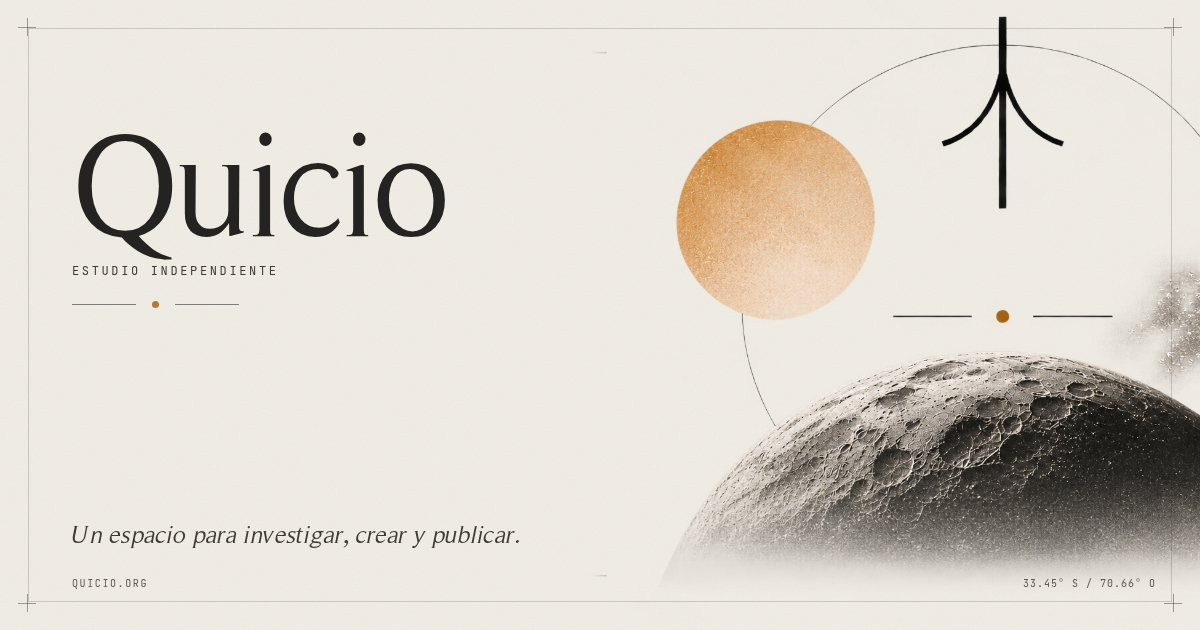
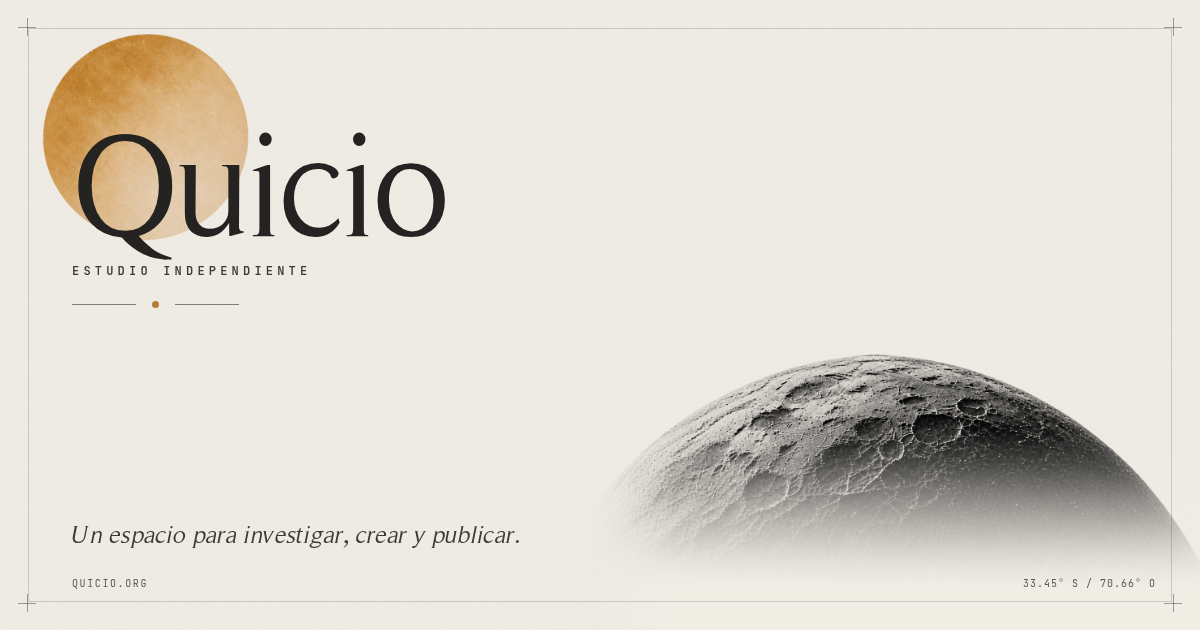
fix: corregir el desbordamiento a 1280/1366 y actualizar la imagen social
- Permite que las disciplinas del catálogo rompan y encojan; sin scroll horizontal a 1280 y 1366.
- Regenera og.png con el sol, la luna y el wordmark actuales.
- Actualiza el backlog: D-001 y D-003 resueltos.

diff --git a/scripts/og.html b/scripts/og.html
@@ -19,7 +19,7 @@
       @font-face {
         font-family: "JetBrains Mono";
         font-style: normal;
-        font-weight: 400;
+        font-weight: 100 800;
         src: url("../src/assets/fonts/jetbrains-mono-latin-wght-normal.woff2")
           format("woff2");
       }
@@ -116,12 +116,35 @@
         z-index: 1;
         overflow: hidden;
       }
-      .sky img {
-        width: 100%;
-        height: 100%;
-        object-fit: cover;
-        object-position: 18% center;
+      .sky::after {
+        content: "";
+        position: absolute;
+        inset: 0;
+        background: linear-gradient(
+          to bottom,
+          transparent 68%,
+          #f0ede5 94%
+        );
+        pointer-events: none;
+      }
+      .moon {
+        position: absolute;
+        right: -40px;
+        bottom: -40px;
+        width: 720px;
+        height: auto;
         display: block;
+        filter: grayscale(1) contrast(1.24) brightness(0.82) sepia(0.12);
+      }
+      .sun {
+        position: absolute;
+        left: 22px;
+        top: 24px;
+        width: 250px;
+        height: auto;
+        z-index: 0;
+        mix-blend-mode: multiply;
+        filter: saturate(0.8) brightness(1.02);
       }
       .content {
         position: absolute;
@@ -141,7 +164,8 @@
       .descriptor {
         margin: 22px 0 0;
         font-size: 12px;
-        letter-spacing: 0.22em;
+        font-weight: 600;
+        letter-spacing: 0.35em;
         text-transform: uppercase;
         color: #3d3a35;
       }
@@ -200,8 +224,10 @@
     </style>
   </head>
   <body>
+    <img class="sun" src="../src/assets/images/hero/sun.png" alt="" />
+
     <div class="sky">
-      <img src="../src/assets/images/hero-espacio.png" alt="" />
+      <img class="moon" src="../src/assets/images/hero/moon.png" alt="" />
     </div>
 
     <div class="content">

diff --git a/docs/backlog-diseno.md b/docs/backlog-diseno.md
@@ -15,9 +15,7 @@ Registro vivo de hallazgos visuales, de accesibilidad y de sistema. No es una li
 
 | ID | Prioridad | Área | Hallazgo | Evidencia | Propuesta | Estado |
 |---|---|---|---|---|---|---|
-| D-001 | Alta | Fichas de proyecto | A 1280 y 1366 px la portada desborda en horizontal 9–26 px por `.project__disciplines` | `scrollWidth` 1306 a 1280 y 1375 a 1366; el span mide 1023→1306 a 1280 | Permitir que la fila de disciplinas encoja o rompa (`min-width: 0`, `flex-wrap`) y comprobar también `/proyectos/` | abierto |
 | D-002 | Alta | Tipografía / legal | La licencia de Roman Serif no incluye texto de uso web; falta confirmar derechos de distribución | `public/fonts/LICENSE-romanserif.txt`; nota en `DESIGN.md` | Confirmar con el proveedor; si no hay permiso, planificar sustituta y actualizar tokens | necesita decisión |
-| D-003 | Media | Imagen social | `public/og.png` se generó con el hero anterior (`hero-espacio.png`) y no con la lámina actual | `scripts/og.html` línea 204; `og.png` 1200×630 del 24/11 16:47 | Regenerar con la composición actual o con un encuadre social propio | abierto |
 | D-004 | Media | Rendimiento | Roman Serif se sirve en TTF (81 kB + 74 kB) sin subset; Archivo y JetBrains ya van en woff2 | `src/assets/fonts/RomanSerif.ttf`, `RomanSerif-Oblique.ttf`; `docs/...` no aplica | Convertir a woff2 y subconjuntar el latino; medir el ahorro antes de publicar | abierto |
 | D-005 | Baja | Textura | El grano del hero (`.hero::after`, opacidad 0.46) es más fuerte que el grano global; puede notarse el salto en el pliegue | Comparar `hero-final3-1536.png` con `home-scrolled.png` | Revisar el pliegue a 1024 y 1440; si se nota, igualar o prolongar el grano | abierto |
 | D-006 | Baja | Cabecera | En la portada la cabecera es absoluta y se va con la lámina; no hay navegación persistente al hacer scroll | `home-scrolled.png`; `SiteHeader` variante `--overlay` | Evaluar un revelado al subir con mejora progresiva; si se hace, abrir cambio de OpenSpec | necesita decisión |
@@ -26,23 +24,11 @@ Registro vivo de hallazgos visuales, de accesibilidad y de sistema. No es una li
 
 ## Detalle
 
-### D-001 · Desbordamiento a 1280 y 1366
-
-Reproducción: abrir `/` a 1280×720 y comprobar `document.documentElement.scrollWidth` (1306). El elemento que sobresale es `span.project__disciplines` dentro de una ficha destacada; a 1440 y 1024 no ocurre. Afecta al requisito de responsive del `site-shell` y a la sensación de página recortada.
-
 ### D-002 · Licencia de Roman Serif
 
 El archivo de licencia declara el titular y advierte que no incluye un texto de uso web. Se puede publicar el sitio, pero redistribuir la fuente sin permiso es un riesgo. No es un arreglo de diseño: es una decisión de negocio con consecuencia tipográfica.
 
-### D-003 · Imagen social
-
-La imagen de Open Graph y Twitter sigue usando el hero anterior. Es lo primero que se ve al compartir el enlace, así que conviene regenerarla cuando la lámina esté cerrada.
-
-### D-009 · Sol de origen
-
-El borde oscuro del PNG se resolvió en el hero con una máscara elíptica. Si el sol se usa en otro sitio sin esa máscara, el borde vuelve. La solución de fondo es un asset limpio; la de corto plazo, replicar la máscara.
-
-## Resueltos en la revisión del hero
+## Resueltos
 
 | ID | Hallazgo | Resolución |
 |---|---|---|
@@ -55,6 +41,8 @@ El borde oscuro del PNG se resolvió en el hero con una máscara elíptica. Si e
 | R-007 | Disciplinas a 9,28 px en 1280×720 | Mínimo de 11 px |
 | R-008 | Borde difuminado del sol | Se comprobó que el PNG no trae ese borde: el fundido era la máscara CSS. Retirada; el sol conserva el borde nítido del asset |
 | R-009 | El isotipo de cabecera, footer y favicon no coincidía con el glyph definitivo | `Mark`, `Logo`, `favicon.svg` y los PNG de icono usan el símbolo 100×150 sin pivote |
+| R-010 | Desbordamiento horizontal a 1280/1366 por `.project__disciplines` | Separadores con espacios y `min-width: 0`; sin scroll horizontal a 1280 y 1366 |
+| R-011 | `og.png` generado con el hero anterior | Regenerado con el sol, la luna y el wordmark actuales; 1200×630 |
 
 ## Descartados
 
